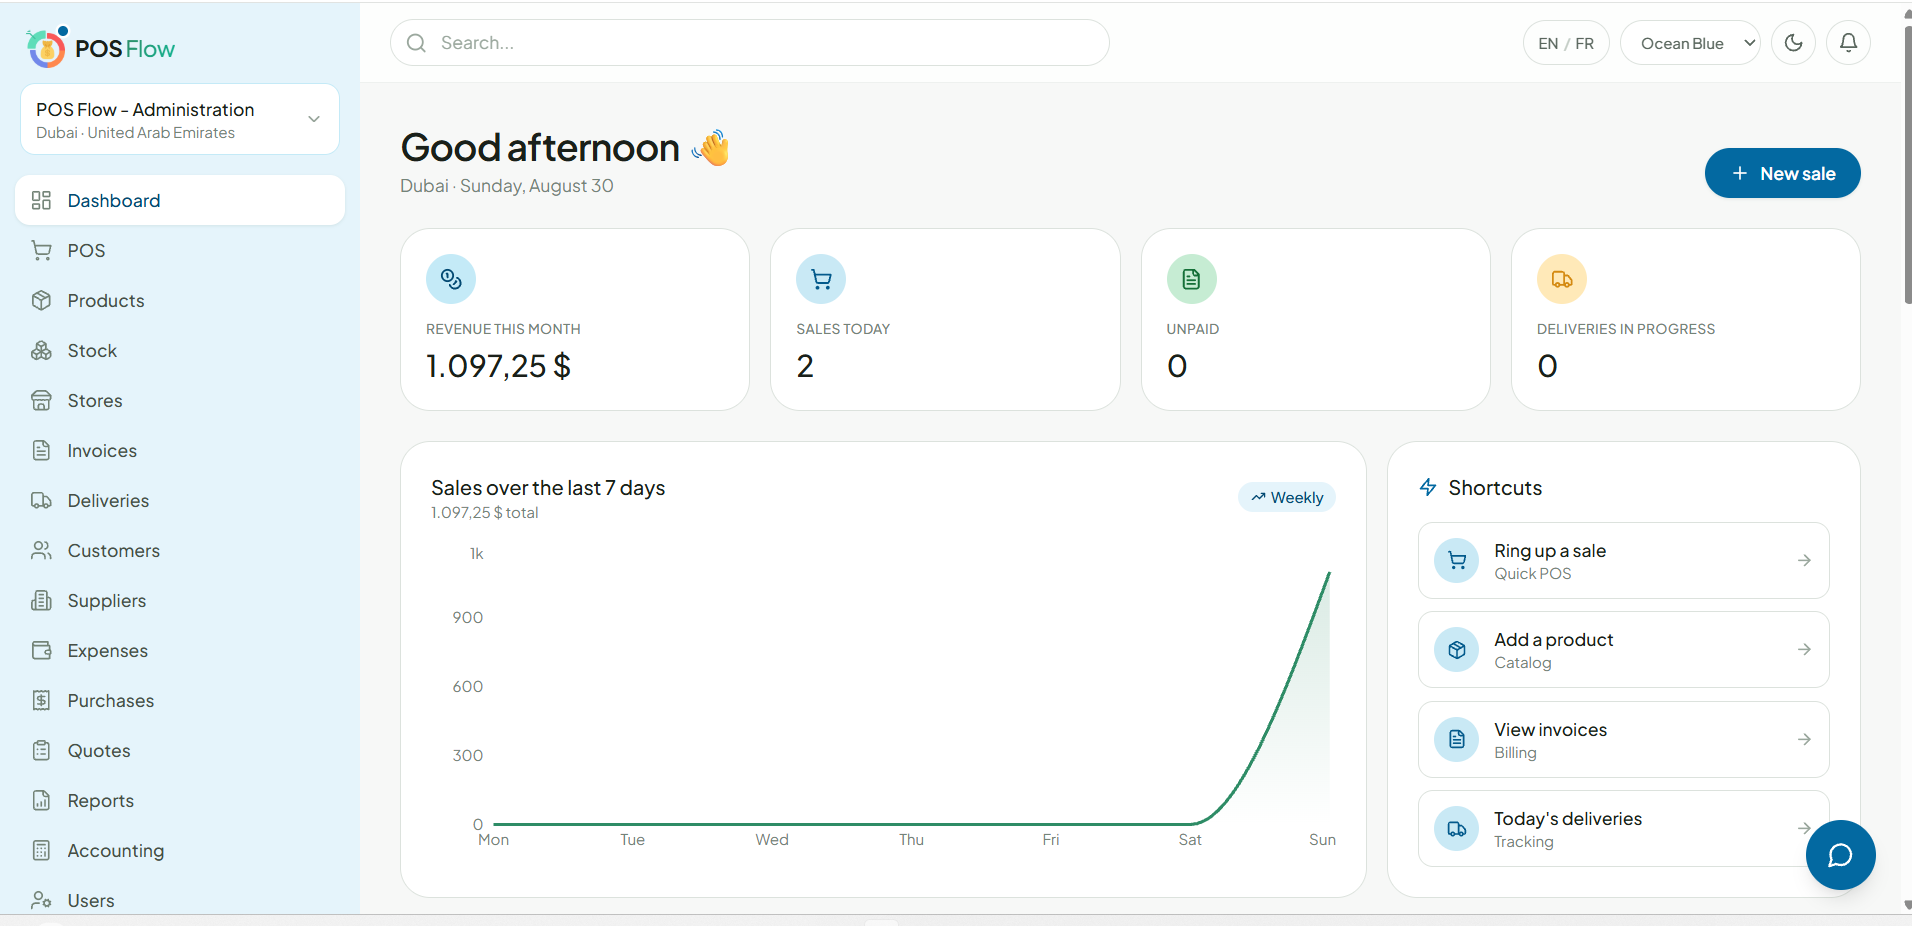
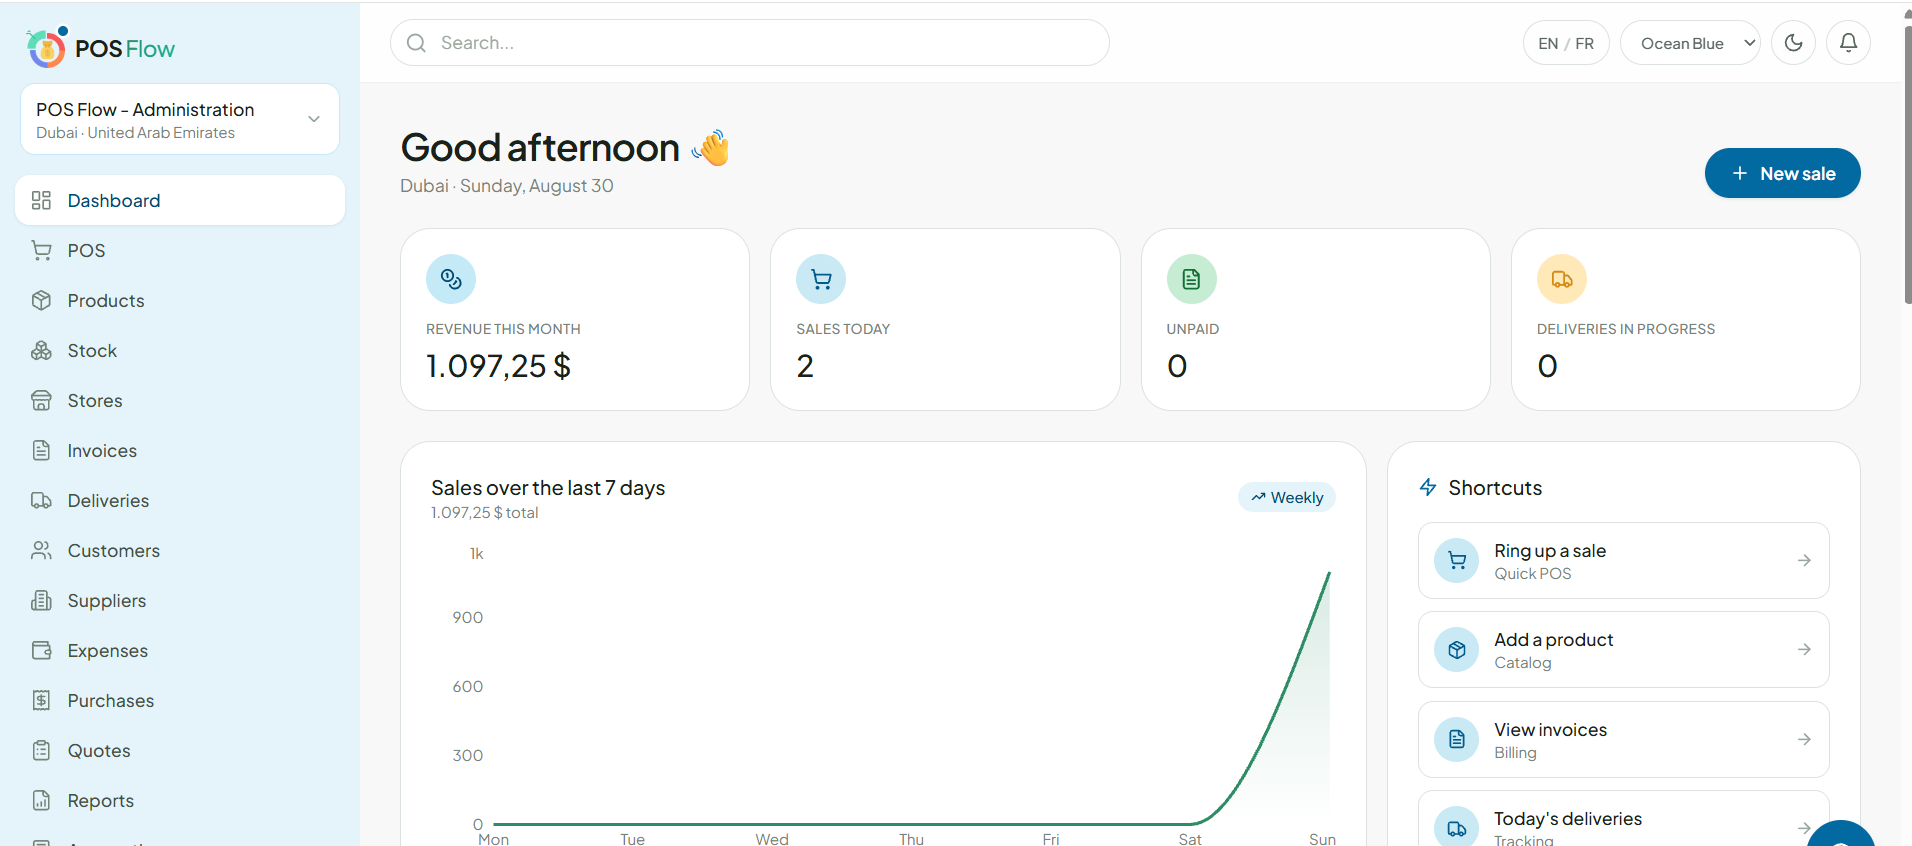
Finish button-pill sweep, fix stretched dashboard mockup
- Finished the pill-button pass: IntegrationDetailPage plan CTA,
  SuperAdminPage message-action icon buttons, POS cart quantity
  stepper (-/+) buttons.
- 'Let's get moving' dashboard screenshot section: cropped the dead
  gray margin that used to sit below the cards, and wrapped the real
  screenshot in a proper browser-window frame (traffic-light dots +
  address bar showing pos.liafrik.com) instead of a bare image, so
  the native ~2.3:1 desktop capture doesn't read as a thin stretched
  banner at marketing-page width.

diff --git a/src/pages/LandingPage.tsx b/src/pages/LandingPage.tsx
@@ -4,7 +4,7 @@ import {
   Menu, X, Globe, ChevronDown, ArrowRight, MapPin,
   ShoppingCart, Package, Store, Plug, FileText, BarChart3,
   ShieldCheck, Wallet, Check, CheckCircle2, Smartphone, TrendingUp, Receipt, Moon, Sun,
-  Search, Coffee, Shirt, Sparkles, CreditCard, Banknote, Percent,
+  Search, Coffee, Shirt, Sparkles, CreditCard, Banknote, Percent, Lock,
 } from 'lucide-react';
 import { motion, AnimatePresence } from 'framer-motion';
 import { AreaChart, Area, ResponsiveContainer } from 'recharts';
@@ -1384,11 +1384,29 @@ export function LandingPage() {
             {t('pLanding.keepFlowing.desc')}
           </p>
 
-          <div className="mx-auto max-w-4xl p-3 rounded-3xl bg-[#172B3A] border border-white/10 shadow-2xl">
+          {/* Real screenshot presented as a browser window (traffic-light
+              dots + address bar showing the platform's actual domain)
+              instead of a bare image — this both reads as a proper product
+              shot rather than a flat cropped banner, and gives the very
+              wide capture (native desktop resolution, ~2.3:1) some vertical
+              weight so it doesn't look stretched thin at marketing-page
+              width. The screenshot itself was also cropped to remove the
+              dead gray margin that used to sit below the cards. */}
+          <div className="mx-auto max-w-5xl rounded-2xl bg-[#172B3A] border border-white/10 shadow-2xl overflow-hidden">
+            <div className="flex items-center gap-3 border-b border-white/10 bg-white/5 px-4 py-3">
+              <div className="flex gap-1.5">
+                <span className="h-2.5 w-2.5 rounded-full bg-error-500/70" />
+                <span className="h-2.5 w-2.5 rounded-full bg-warning-500/70" />
+                <span className="h-2.5 w-2.5 rounded-full bg-success-500/70" />
+              </div>
+              <div className="mx-auto flex items-center gap-1.5 rounded-full bg-white/10 px-4 py-1 text-xs text-white/60">
+                <Lock size={11} /> pos.liafrik.com
+              </div>
+            </div>
             <img
               src="/dashboard-screenshot.png"
               alt={t('pLanding.keepFlowing.screenshotAlt')}
-              className="w-full h-auto rounded-2xl"
+              className="w-full h-auto"
             />
           </div>
 

diff --git a/src/pages/modules/SuperAdminPage.tsx b/src/pages/modules/SuperAdminPage.tsx
@@ -1386,10 +1386,10 @@ function SuperMessages() {
                   <p className="mt-2 text-xs text-ink-400 dark:text-ink-500">{formatDateTime(new Date(m.created_at))}</p>
                 </div>
                 <div className="flex flex-shrink-0 items-center gap-2">
-                  <a href={`mailto:${m.email}${m.subject ? `?subject=${encodeURIComponent('Re: ' + m.subject)}` : ''}`} className="rounded-lg border border-ink-200 dark:border-ink-700 p-2 text-ink-500 dark:text-ink-400 hover:bg-brand-50 dark:hover:bg-brand-900/25 hover:text-brand-600" title={t('super.messages.reply')}>
+                  <a href={`mailto:${m.email}${m.subject ? `?subject=${encodeURIComponent('Re: ' + m.subject)}` : ''}`} className="rounded-full border border-ink-200 dark:border-ink-700 p-2 text-ink-500 dark:text-ink-400 hover:bg-brand-50 dark:hover:bg-brand-900/25 hover:text-brand-600" title={t('super.messages.reply')}>
                     <Mail size={15} />
                   </a>
-                  <button onClick={() => toggleHandled(m)} className={`rounded-lg border p-2 ${m.handled ? 'border-ink-200 dark:border-ink-700 text-ink-400' : 'border-success-200 dark:border-success-800 text-success-600 hover:bg-success-50 dark:hover:bg-success-900/25'}`} title={t(m.handled ? 'super.messages.markUnhandled' : 'super.messages.markHandled')}>
+                  <button onClick={() => toggleHandled(m)} className={`rounded-full border p-2 ${m.handled ? 'border-ink-200 dark:border-ink-700 text-ink-400' : 'border-success-200 dark:border-success-800 text-success-600 hover:bg-success-50 dark:hover:bg-success-900/25'}`} title={t(m.handled ? 'super.messages.markUnhandled' : 'super.messages.markHandled')}>
                     <Check size={15} />
                   </button>
                 </div>

diff --git a/src/pages/modules/POSPage.tsx b/src/pages/modules/POSPage.tsx
@@ -643,7 +643,7 @@ export function POSPage() {
                     </div>
                     <div className="mt-2 flex items-center justify-between">
                       <div className="flex items-center gap-2">
-                        <button onClick={() => updateQty(i.product.id, -1)} className="rounded-md border border-ink-200 dark:border-ink-700 p-1 text-ink-600 dark:text-ink-300 hover:bg-ink-50 dark:hover:bg-ink-900">
+                        <button onClick={() => updateQty(i.product.id, -1)} className="rounded-full border border-ink-200 dark:border-ink-700 p-1 text-ink-600 dark:text-ink-300 hover:bg-ink-50 dark:hover:bg-ink-900">
                           <Minus size={12} />
                         </button>
                         <input
@@ -652,7 +652,7 @@ export function POSPage() {
                           onChange={(e) => setQty(i.product.id, Number(e.target.value))}
                           className="w-12 rounded-md border border-ink-200 dark:border-ink-700 px-2 py-1 text-center text-sm"
                         />
-                        <button onClick={() => updateQty(i.product.id, 1)} className="rounded-md border border-ink-200 dark:border-ink-700 p-1 text-ink-600 dark:text-ink-300 hover:bg-ink-50 dark:hover:bg-ink-900">
+                        <button onClick={() => updateQty(i.product.id, 1)} className="rounded-full border border-ink-200 dark:border-ink-700 p-1 text-ink-600 dark:text-ink-300 hover:bg-ink-50 dark:hover:bg-ink-900">
                           <Plus size={12} />
                         </button>
                       </div>

diff --git a/src/pages/IntegrationDetailPage.tsx b/src/pages/IntegrationDetailPage.tsx
@@ -295,7 +295,7 @@ export function IntegrationDetailPage() {
                       </div>
 
                       <button
-                        className={`w-full px-6 py-3 rounded-lg font-semibold transition ${
+                        className={`w-full px-6 py-3 rounded-full font-semibold transition ${
                           plan.canConnect
                             ? 'bg-blue-600 text-white hover:bg-blue-700 dark:bg-blue-600 dark:hover:bg-blue-700'
                             : 'bg-gray-200 dark:bg-ink-600 text-gray-500 dark:text-ink-400 cursor-not-allowed'
